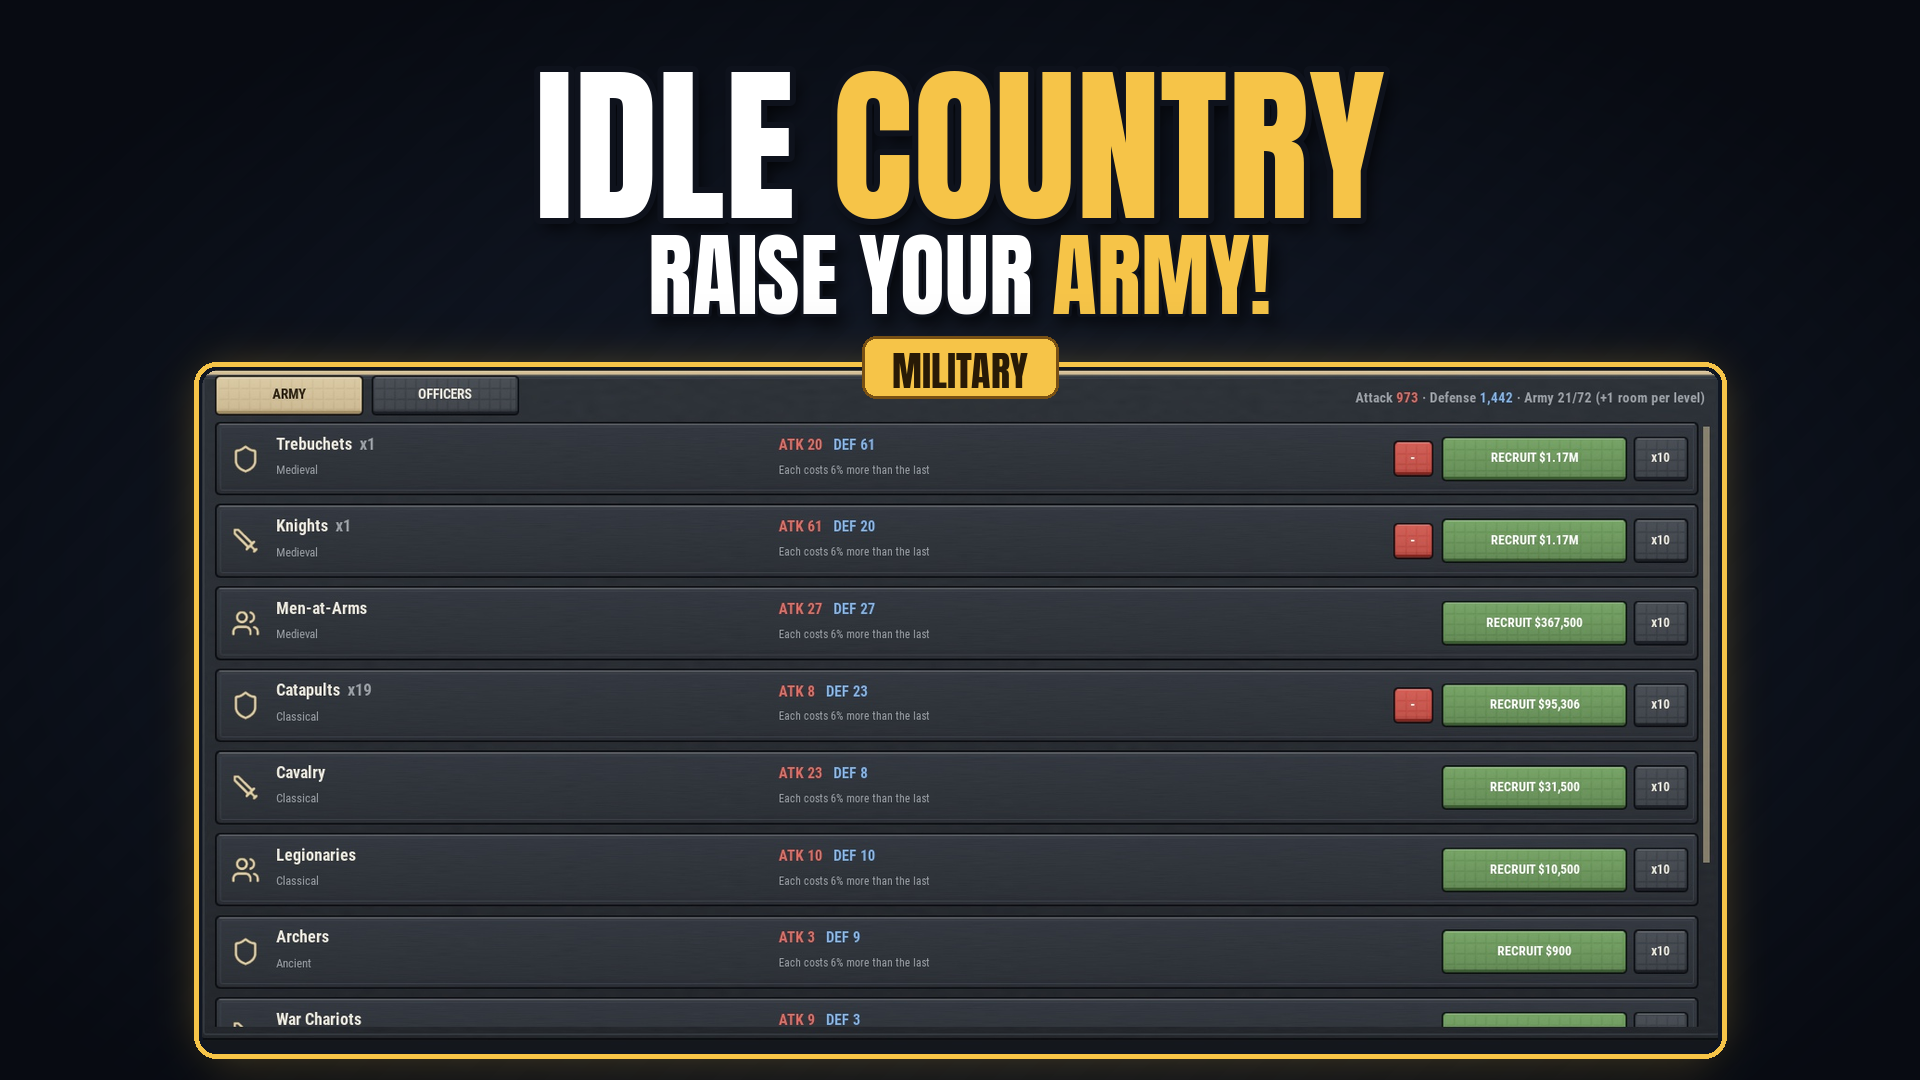
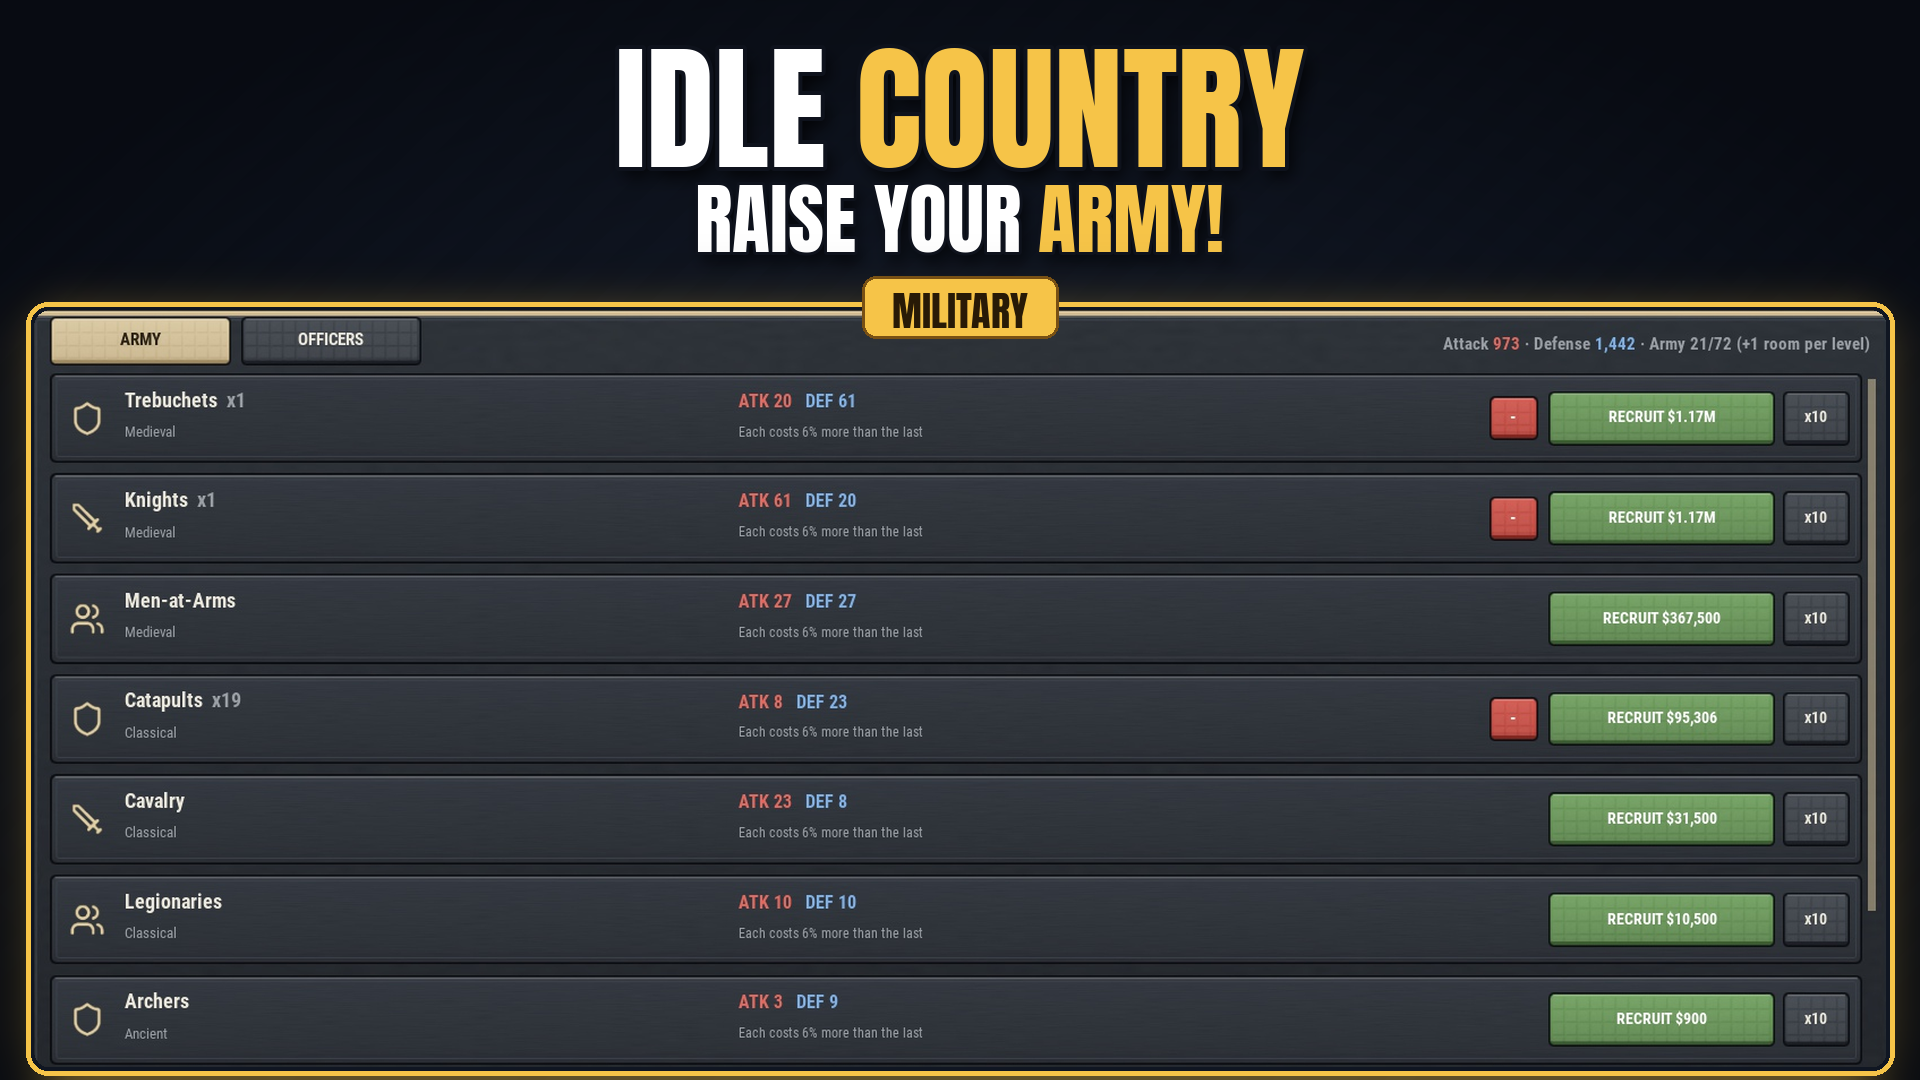
v7 thumbnails: fill the panel, tighter title
Claude-Session: https://claude.ai/code/session_01Vpo2FrJoEnDhE4D8g3NsyK

diff --git a/art/ads/v7/make.py b/art/ads/v7/make.py
@@ -35,10 +35,22 @@ def gold_gradient_text(im, text, y, sz):
     # title word with a vertical gold gradient fill
     f=font(sz); w=text_w(text,f)
     return w
-def panel(im, shot, box, crop=None, label=None):
-    src=Image.open(shot).convert('RGB')
-    if crop: src=src.crop(crop)
+def panel(im, shot, box, crop=None, label=None, anchor='top'):
+    full=Image.open(shot).convert('RGB')
     bx,by,bw,bh=box
+    # fit the crop to the panel shape so the screenshot fills it (Kash: too much empty space)
+    x0,y0,x1,y1=crop or (0,0,full.width,full.height)
+    target=bw/bh
+    if (x1-x0)/(y1-y0) > target:
+        need=(x1-x0)/target; grow=need-(y1-y0)
+        y0=max(0,y0-grow*0.15); y1=min(full.height,y0+need)
+        if (x1-x0)/(y1-y0) > target:
+            cw=(y1-y0)*target; cx=(x0+x1)/2; x0,x1=cx-cw/2,cx+cw/2
+    else:
+        h=(x1-x0)/target
+        if anchor=='bottom': y0=y1-h
+        else: y1=y0+h
+    src=full.crop((int(x0),int(y0),int(x1),int(y1)))
     s=min(bw/src.width, bh/src.height)
     src=src.resize((int(src.width*s),int(src.height*s)),Image.LANCZOS)
     px=bx+(bw-src.width)//2; py=by+(bh-src.height)//2+10
@@ -59,17 +71,17 @@ def panel(im, shot, box, crop=None, label=None):
         d.rounded_rectangle((lx,ly,lx+tw+60,ly+62),14,fill=GOLD,outline=(120,80,20),width=3)
         d.text((lx+30,ly+4),label,font=f,fill=(40,26,6))
     return py+src.height
-def make(name, line1, line2, shot, crop=None, label=None, panel_top=360):
+def make(name, line1, line2, shot, crop=None, label=None, panel_top=300, anchor='top'):
     im=bg()
-    draw_line(im, line1, 18, 170)
-    draw_line(im, line2, 205, 92)
-    panel(im, shot, (70, panel_top, W-140, H-panel_top-40), crop, label)
+    draw_line(im, line1, 4, 138)
+    draw_line(im, line2, 160, 78)
+    panel(im, shot, (34, panel_top, W-68, H-panel_top-22), crop, label, anchor)
     out=f'/home/claude/main/art/ads/v7/{name}.png'
     im.convert('RGB').save(out); print(out)
 TITLE=[('IDLE',WHITE),('COUNTRY',GOLD)]
 make('ic_properties', TITLE, [('BUILD YOUR',WHITE),('EMPIRE!',GOLD)], TR+'1790915250626-ww5jcb.jpg', (215,85,1850,818), 'YOUR PROPERTIES')
-make('ic_convoys', TITLE, [('SEND',WHITE),('TRADE CONVOYS',GOLD),('WORLDWIDE!',WHITE)], TR+'1791061166093-ankg68.jpg', (205,75,1762,808), 'WORLD MAP')
-make('ic_boss', TITLE, [('DEFEAT',WHITE),('BOSSES',GOLD),('FOR GOLD!',WHITE)], TR+'1791061183507-86bshr.jpg', (225,140,1840,580), 'BOSS FIGHT')
+make('ic_convoys', TITLE, [('SEND',WHITE),('TRADE CONVOYS',GOLD),('WORLDWIDE!',WHITE)], TR+'1791061166093-ankg68.jpg', (205,75,1762,808), 'WORLD MAP', anchor='bottom')
+make('ic_boss', TITLE, [('DEFEAT',WHITE),('BOSSES',GOLD),('FOR GOLD!',WHITE)], TR+'1791061183507-86bshr.jpg', (225,95,1840,808), 'BOSS FIGHT')
 make('ic_officers', TITLE, [('HIRE',WHITE),('LEGENDARY',GOLD),('OFFICERS!',WHITE)], TR+'1790915290773-1agb4x.jpg', (215,85,1850,818), 'YOUR CABINET')
-make('ic_alliance', TITLE, [('JOIN AN',WHITE),('ALLIANCE',GOLD),('& CONQUER!',WHITE)], TR+'1791059261851-ucn9rb.jpg', (225,305,1840,690), 'ALLIANCE TARGET')
+make('ic_alliance', TITLE, [('JOIN AN',WHITE),('ALLIANCE',GOLD),('& CONQUER!',WHITE)], UP+'cdfefca8-image.png', (300,405,1875,1003), 'ALLIANCE')
 make('ic_army', TITLE, [('RAISE YOUR',WHITE),('ARMY!',GOLD)], TR+'1790921636915-g9i72i.jpg', (215,85,1850,818), 'MILITARY')
